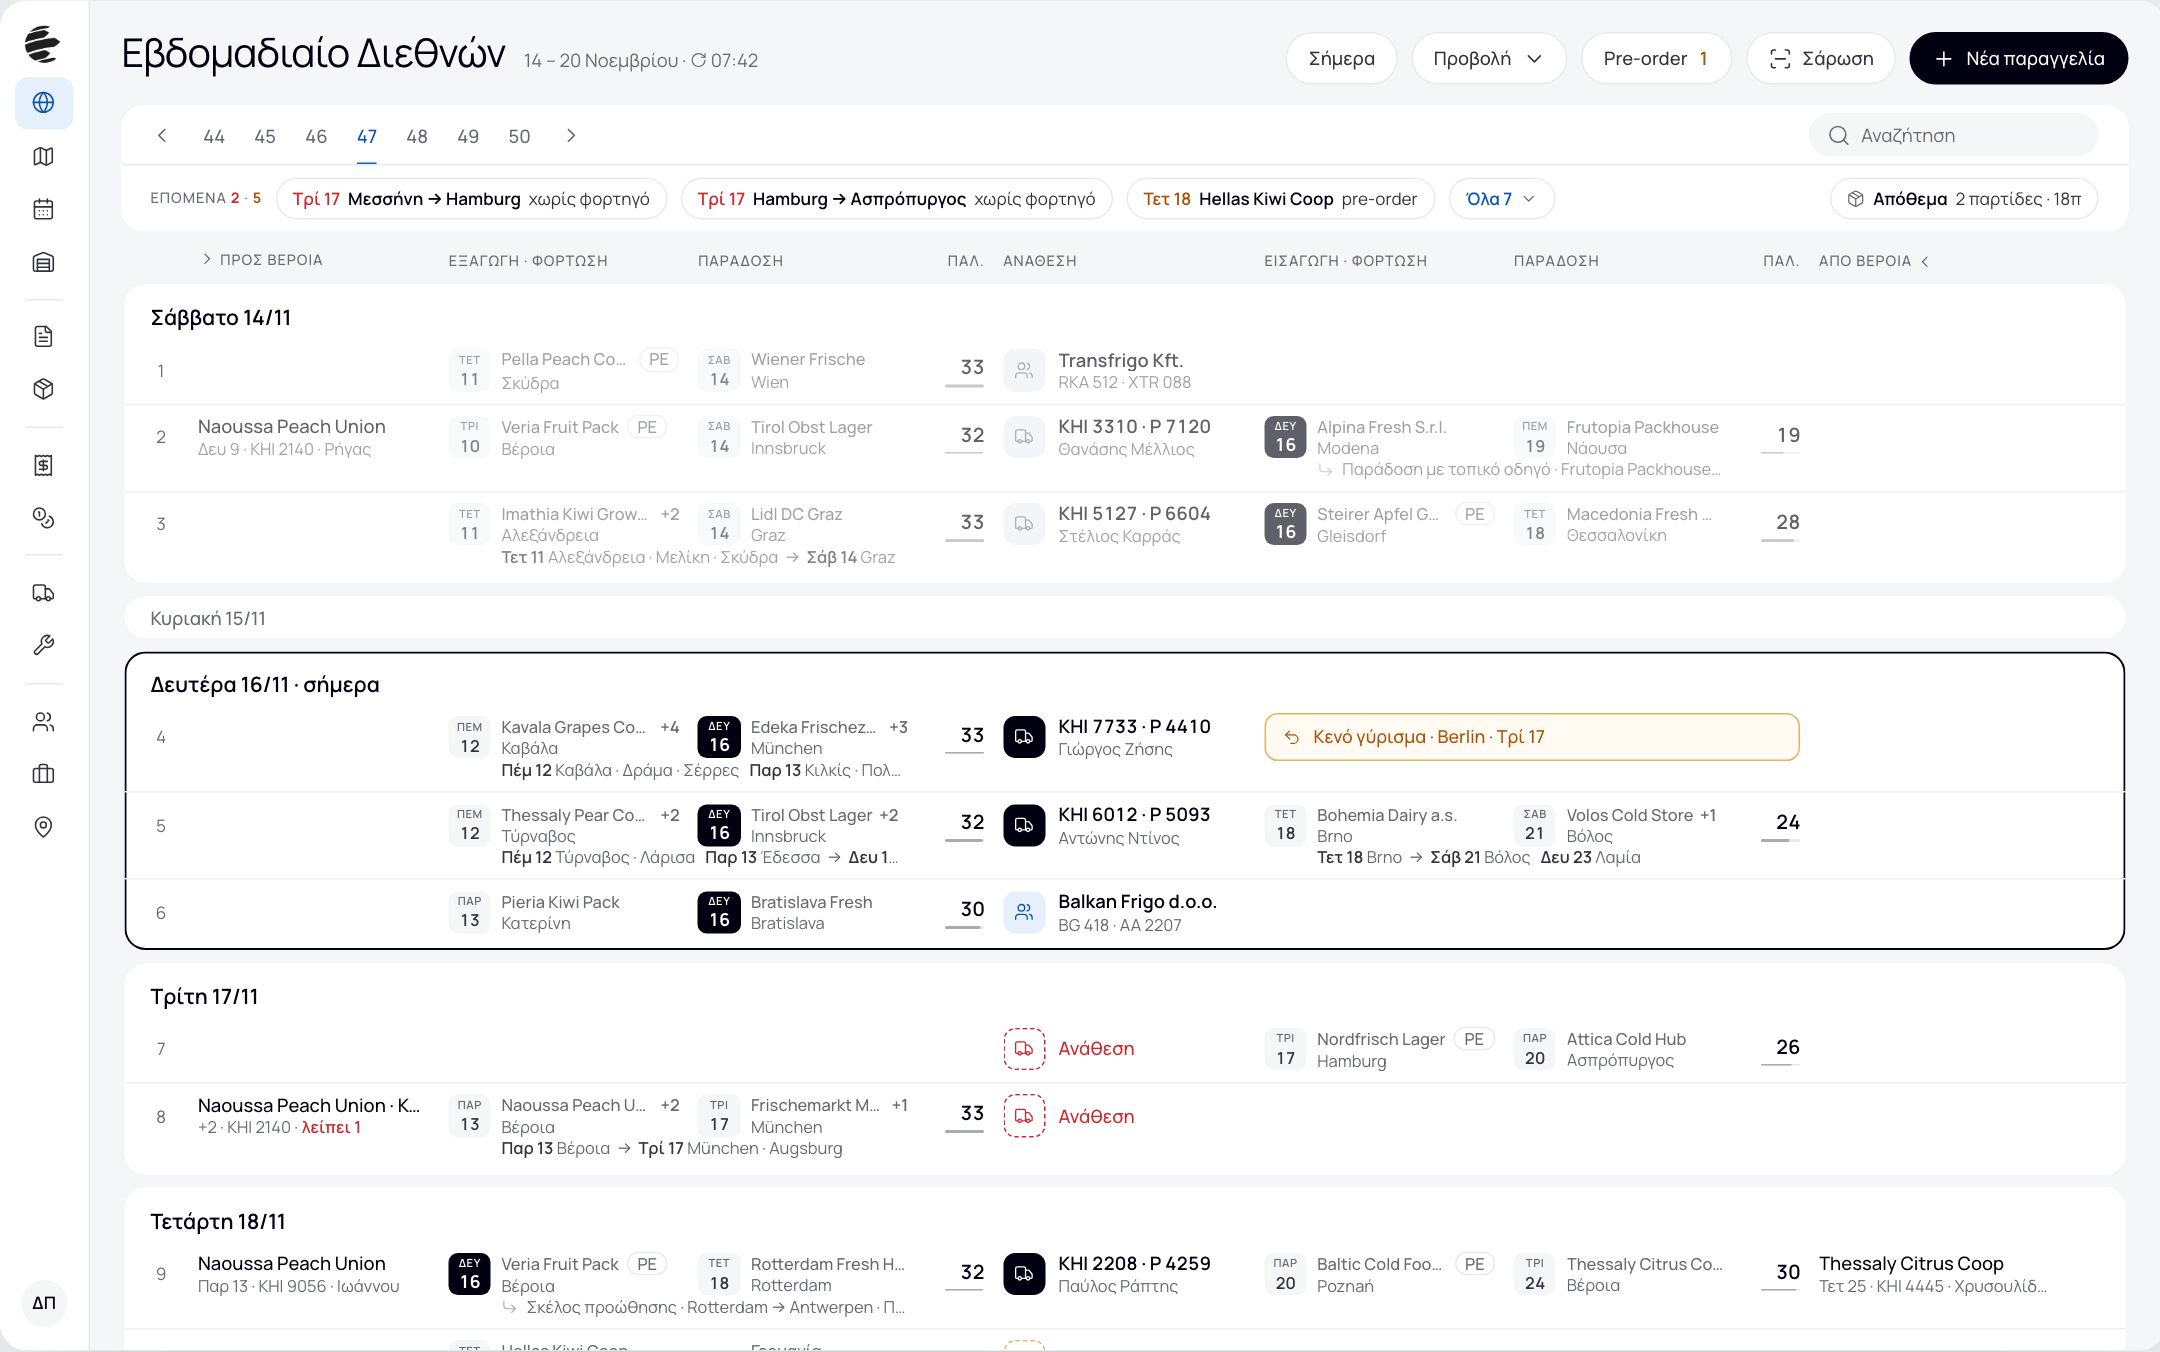
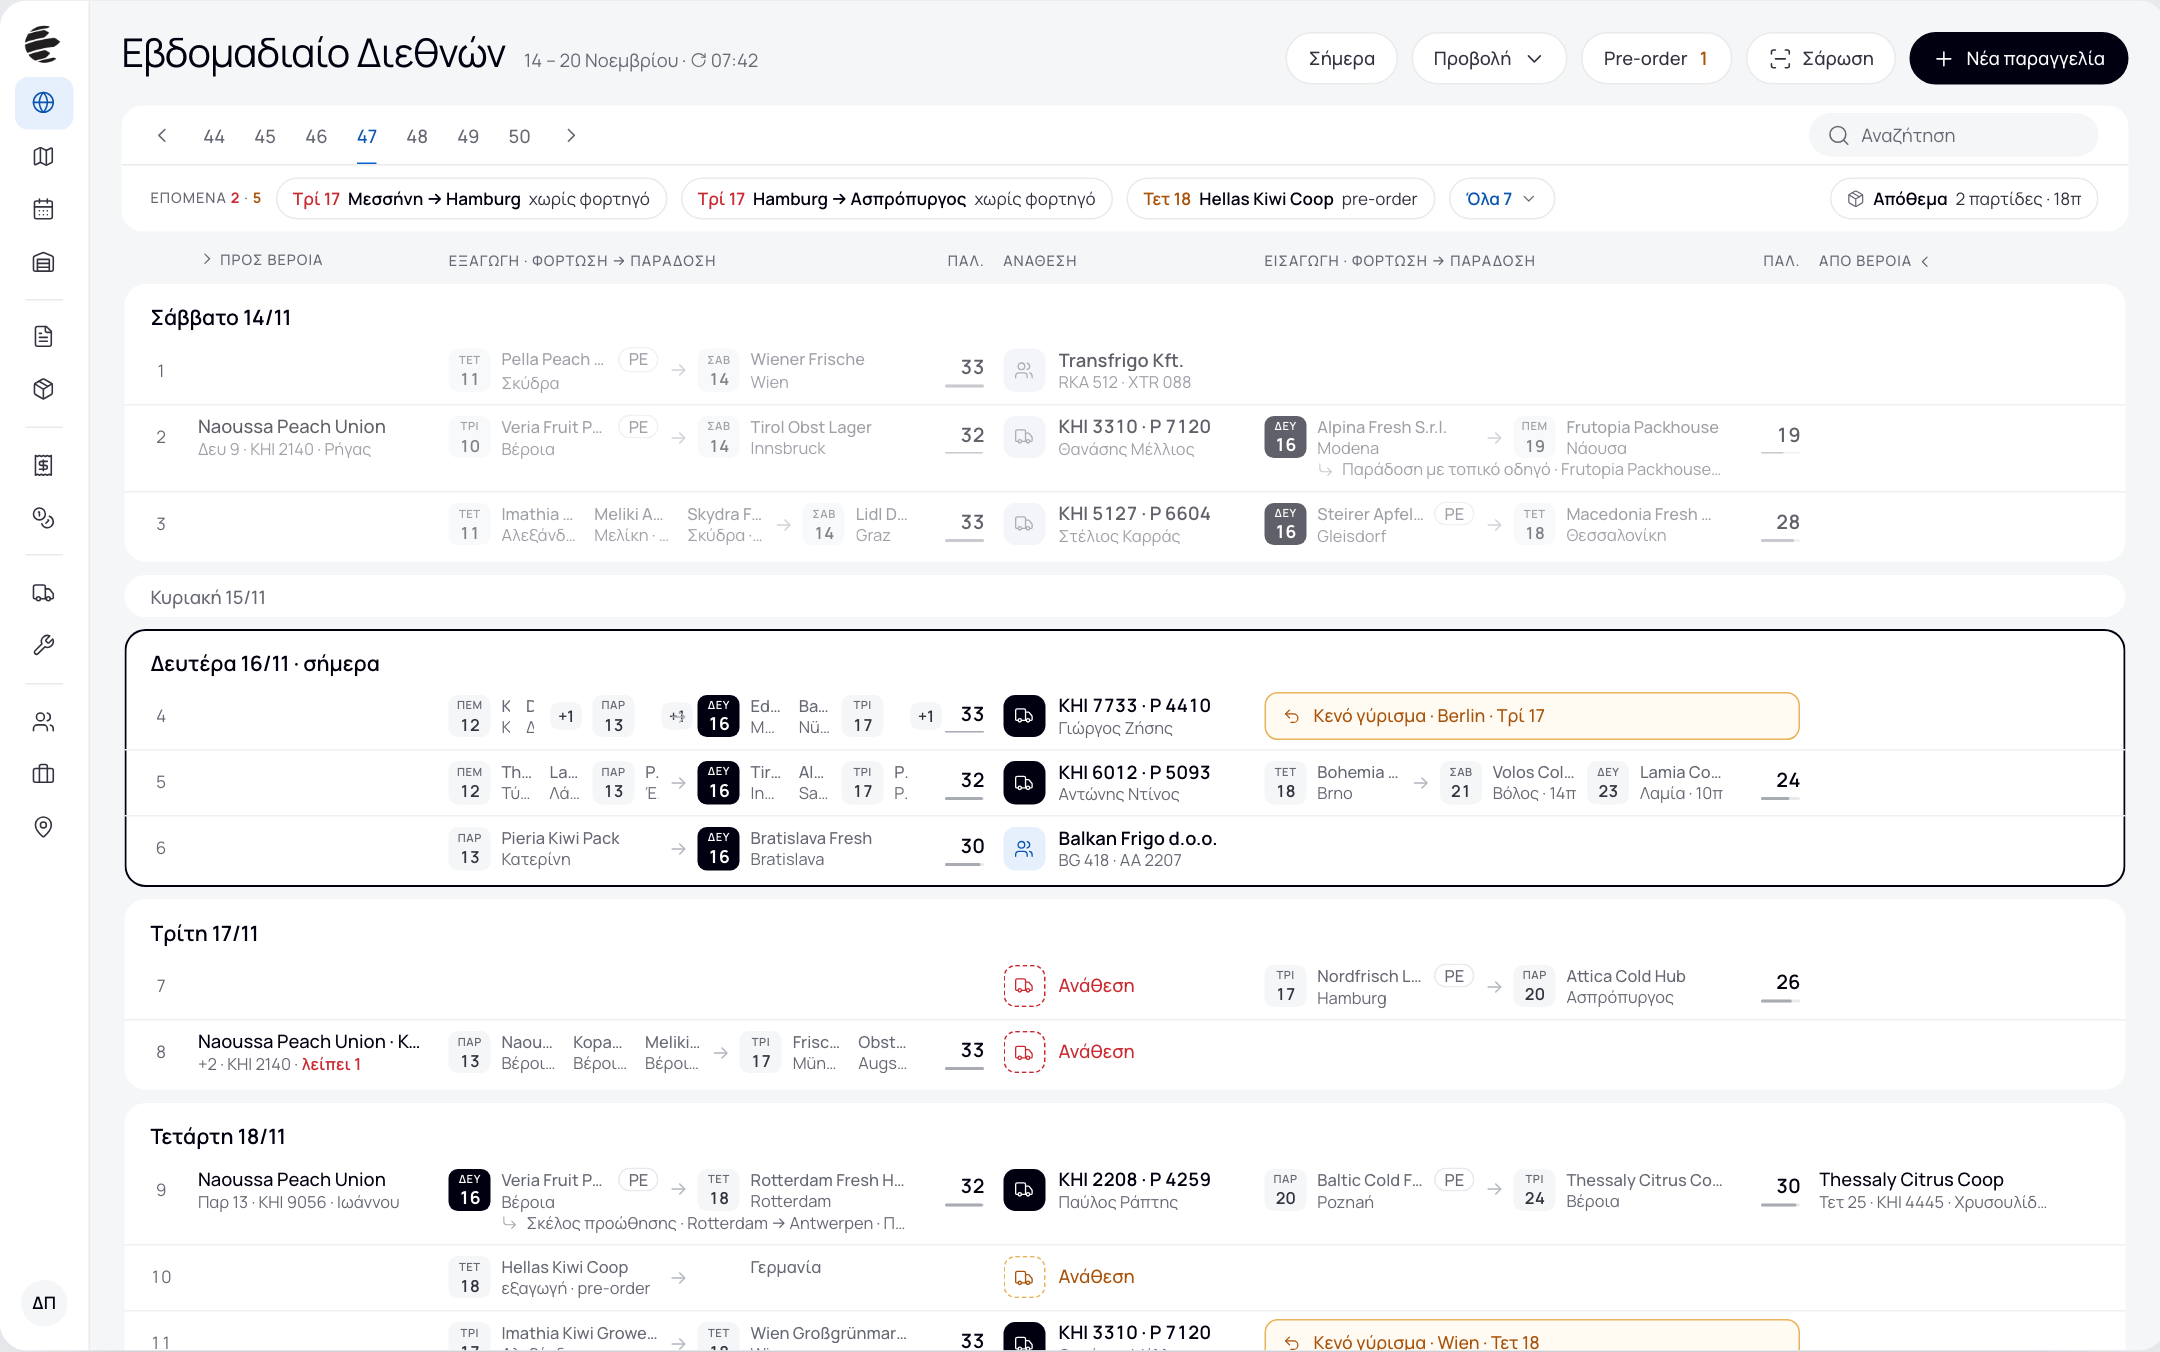
docs(redesign): Weekly International rebuilt as the 'route' structure the owner actually chose — a leaf per day with its points beside it, arrow, deliveries; my earlier build of the other structure came from a mislabelled picture order (owner 15/11)

diff --git a/docs/design/redesign-2026-11/index.html b/docs/design/redesign-2026-11/index.html
@@ -491,13 +491,13 @@ table.spec td b{color:var(--ink);font-weight:600}
 .vpop h5{margin-top:0}
 .lc .asb{background:none;padding:0}.lc .asb.need{padding:4px 12px}
 #f5>.app{zoom:.88;inset:0 auto auto 0;width:1636px;height:1023px}
-/* Weekly International, structure B (owner's choice 15/11): fixed columns; a load with many points gets one thin second line
-   with its whole route per day. Assignment as on yesterday's national board (icon tile + text). Today is ink, not blue. */
+/* Weekly International, structure B (owner's choice 15/11): each side is one route (leaf per day, its points beside it, arrow, deliveries). Assignment as on yesterday's national board (icon tile + text). Today is ink, not blue. */
 .lf.s:not(.t) b{font-size:12.5px;font-weight:600;color:var(--body)}
 .w9h,.w9row{display:grid;gap:0 14px;align-items:center;padding:0 20px 0 14px}.w9h{height:34px;margin-top:6px}
 .w9row{min-height:50px;position:relative;font-size:13.5px}.w9row+.w9row:not(.sub){border-top:1px solid #EEF0F2}.w9row.sub{min-height:0;margin-top:-8px;padding-bottom:8px}
 .w9no{color:var(--help);font-size:13px;text-align:center}
-.w9d{display:flex;align-items:center;gap:8px;min-width:0}.w9p{flex:1 1 0;min-width:0}
+.w9r,.w9d{display:flex;align-items:center;gap:8px;min-width:0}.w9ps{display:flex;gap:12px;min-width:0;flex:1}.w9p{flex:1 1 0;min-width:0}
+.w9m{flex:none;align-self:center;font-size:12px;font-weight:600;color:var(--body);background:var(--bg);border-radius:6px;padding:2px 6px}.w9a{flex:none;font-style:normal;color:#B5B8C0;font-size:15px}
 .w9p b,.w9as b,.w9v b{display:flex;align-items:center;font-size:14px;line-height:18px;color:var(--ink);white-space:nowrap;overflow:hidden}.w9p b,.w9v b{font-weight:500}.w9as b{font-weight:600}
 .w9p b .el,.w9v b .el{overflow:hidden;text-overflow:ellipsis}.w9p b .tag{flex:none}.w9p b .mo{flex:none;margin-left:5px;color:var(--help);font-weight:600;font-size:12.5px}
 .w9p span,.w9as .tx span,.w9v>span{display:block;font-size:12.5px;line-height:16px;color:var(--help);white-space:nowrap;overflow:hidden;text-overflow:ellipsis}
@@ -1061,7 +1061,9 @@ const lfMany=a=>a.length>1?`<div class="lns">${a.map(x=>lfLn(x[1],'',x[0],x[2],x
   ${vr(7,'<span class="vt2 num">ΚΗΙ 2140 +1<i>4 σημ.</i></span>',two('Imathia Kiwi Growers +1','Τρί 17 · Βέροια'),two('Wien Großgrünmarkt','Τετ 18 · Wien'),33,need)}
   ${vr(5,'<span class="vt2 r h num">ΚΗΙ 2140 · <em>λείπει 1</em></span>',lfMany([['Πέμ 12','Naoussa Peach Union +1','Νάουσα, Κοπανός'],['Παρ 13','Meliki Agro','Μελίκη']]),lfMany([['Δευ 16','Frischemarkt München +1','München, Augsburg',1],['Τρί 17','Stuttgart Großmarkt','Stuttgart']]),33,trk('ΚΗΙ 3310 · Ρ 7120','Θανάσης Μέλλιος'),pop)}</div>`;
 })();
-/* Weekly International, structure B, mounted in the weekly screen (#f5). One row = one truck trip. */
+/* Weekly International, the 'route' structure the owner chose (15/11), mounted in the weekly screen (#f5). One row = one truck trip.
+   Each side is one route: a leaf per day with that day's points beside it, an arrow, then the deliveries. At most three points are
+   drawn per side; the rest show as +N and open on hover. */
 (function(){
  const TODAY='Δευ 16',P=(n,c,d,p,t)=>({n,c,d,p,t});
  const leaf=d=>{const [w,n]=d.split(' ');return `<span class="lf s ${d===TODAY?'t':''}"><i>${lfUp(w)}</i><b>${n}</b></span>`};
@@ -1073,15 +1075,15 @@ const lfMany=a=>a.length>1?`<div class="lns">${a.map(x=>lfLn(x[1],'',x[0],x[2],x
   if(!OPEN)return `<span class="w9vm ${miss?'r':''}" title="${v.map(x=>x.n+' · '+(x.t||'χωρίς φορτηγό')).join(' | ')}">${ic('warehouse')}</span>`;
   return v.length===1?`<div class="w9v"><b><span class="el">${v[0].n}</span></b><span>${v[0].d} · ${v[0].t||'<em>χωρίς φορτηγό</em>'}</span></div>`
    :`<div class="w9v"><b><span class="el">${v.map(x=>x.n).join(' · ')}</span></b><span>+${v.length-1} · ${tr[0].split(' · ')[0]}${tr.length>1?` +${tr.length-1}`:''}${miss?` · <em>λείπει ${miss}</em>`:''}</span></div>`};
- const cell=a=>`<div class="w9d">${a[0].d?leaf(a[0].d):'<span style="width:32px;flex:none"></span>'}<div class="w9p"><b><span class="el">${a[0].n}</span>${a.length>1?`<span class="mo">+${a.length-1}</span>`:''}${tags(a[0].t||'')}</b><span>${a[0].c}</span></div></div>`;
- const route=x=>{const f=a=>byDay(a).map(([d,p])=>`<b>${d}</b> ${p.map(q=>q.c).filter((c,i,z)=>z.indexOf(c)===i).join(' · ')}`).join(' &nbsp; ');return `${f(x.L)} &nbsp;→&nbsp; ${f(x.D)}`};
- const multi=x=>x&&(x.L.length>1||x.D.length>1),E3='<span></span><span></span><span></span>';
+ const grp=a=>{const g=byDay(a);let cap=Math.max(3,g.length)-g.length;const sh=g.map(([d,p])=>{const k=Math.min(p.length-1,cap);cap-=k;return 1+k});
+  return g.map(([d,p],i)=>`<div class="w9d" style="flex:${sh[i]} 1 0">${d?leaf(d):'<span style="width:32px;flex:none"></span>'}<div class="w9ps">${p.slice(0,sh[i]).map(q=>`<div class="w9p"><b><span class="el">${q.n}</span>${tags(q.t||'')}</b><span>${q.c}${q.p?` · ${q.p}π`:''}</span></div>`).join('')}${p.length>sh[i]?`<span class="w9m">+${p.length-sh[i]}</span>`:''}</div></div>`).join('')};
+ const side=x=>`<div class="w9r">${grp(x.L)}<i class="w9a">→</i>${grp(x.D)}</div>${pal(x.pal)}`,E2='<span></span><span></span>';
  /* the two Veroia columns are side panels: closed by default (owner 15/11), a small mark stays on the rows that go through Veroia */
  let OPEN=false,G='';
- const grid=()=>{const v=OPEN?'176px':'30px';G=`28px ${v} minmax(0,1.1fr) minmax(0,1fr) 44px 184px minmax(0,1.1fr) minmax(0,1fr) 44px ${v} 22px`};
- const sub=(l,r)=>`<div class="w9row sub" style="grid-template-columns:${G}"><span></span><span></span><div class="w9l2" style="grid-column:span 2">${l||''}</div><span></span><span></span><div class="w9l2" style="grid-column:span 2">${r||''}</div><span></span><span></span><span></span></div>`;
- const row=r=>`<div class="w9row" style="grid-template-columns:${G}"><span class="w9no num">${r.no}</span>${vcell(r.vTo)}${r.ex?cell(r.ex.L)+cell(r.ex.D)+pal(r.ex.pal):E3}${asg(r.as)}${r.im?cell(r.im.L)+cell(r.im.D)+pal(r.im.pal):r.gap?`<div class="w9gap" style="grid-column:span 3">${ic('undo-2')}Κενό γύρισμα · ${r.gap}</div>`:E3}${vcell(r.vFrom)}<span></span></div>`
-  +(multi(r.ex)||multi(r.im)?sub(multi(r.ex)?route(r.ex):'',multi(r.im)?route(r.im):''):'')+(r.note?sub(r.note[0]&&ic('corner-down-right')+r.note[0],r.note[1]&&ic('corner-down-right')+r.note[1]):'');
+ const grid=()=>{const v=OPEN?'176px':'30px';G=`28px ${v} minmax(0,1fr) 44px 184px minmax(0,1fr) 44px ${v} 22px`};
+ const sub=(l,r)=>`<div class="w9row sub" style="grid-template-columns:${G}"><span></span><span></span><div class="w9l2">${l||''}</div><span></span><span></span><div class="w9l2">${r||''}</div><span></span><span></span><span></span></div>`;
+ const row=r=>`<div class="w9row" style="grid-template-columns:${G}"><span class="w9no num">${r.no}</span>${vcell(r.vTo)}${r.ex?side(r.ex):E2}${asg(r.as)}${r.im?side(r.im):r.gap?`<div class="w9gap" style="grid-column:span 2">${ic('undo-2')}Κενό γύρισμα · ${r.gap}</div>`:E2}${vcell(r.vFrom)}<span></span></div>`
+  +(r.note?sub(r.note[0]&&ic('corner-down-right')+r.note[0],r.note[1]&&ic('corner-down-right')+r.note[1]):'');
  const NV={n:'Naoussa Peach Union',c:'Νάουσα'};
  const WK=[
   ['Σάββατο 14/11','past',[
@@ -1110,7 +1112,7 @@ const lfMany=a=>a.length>1?`<div class="lns">${a.map(x=>lfLn(x[1],'',x[0],x[2],x
    {ex:{L:[P('Pella Peach Coop','Σκύδρα','Τρί 17')],D:[P('Nordic Fresh Hub','København','Πέμ 19')],pal:30},as:['x','ΚΗΙ 4521','→ Transfrigo · από Wien']}]],
   ['Παρασκευή 20/11','none',[]],
  ];
- const head=()=>`<div class="w9h lbl" style="grid-template-columns:${G}">${['',OPEN?`<a class="w9vh" title="Κλείσιμο">${ic('chevron-right')}Προς Βέροια</a>`:`<a class="w9vh" title="Προς Βέροια">${ic('chevron-left')}</a>`,'Εξαγωγή · φόρτωση','Παράδοση','Παλ.','Ανάθεση','Εισαγωγή · φόρτωση','Παράδοση','Παλ.',OPEN?`<a class="w9vh" title="Κλείσιμο">Από Βέροια${ic('chevron-left')}</a>`:`<a class="w9vh" title="Από Βέροια">${ic('chevron-right')}</a>`,''].map(c=>`<span ${c==='Παλ.'?'style="text-align:right"':''}>${c}</span>`).join('')}</div>`;
+ const head=()=>`<div class="w9h lbl" style="grid-template-columns:${G}">${['',OPEN?`<a class="w9vh" title="Κλείσιμο">${ic('chevron-right')}Προς Βέροια</a>`:`<a class="w9vh" title="Προς Βέροια">${ic('chevron-left')}</a>`,'Εξαγωγή · φόρτωση → παράδοση','Παλ.','Ανάθεση','Εισαγωγή · φόρτωση → παράδοση','Παλ.',OPEN?`<a class="w9vh" title="Κλείσιμο">Από Βέροια${ic('chevron-left')}</a>`:`<a class="w9vh" title="Από Βέροια">${ic('chevron-right')}</a>`,''].map(c=>`<span ${c==='Παλ.'?'style="text-align:right"':''}>${c}</span>`).join('')}</div>`;
  const bh=$('f5').querySelector('.bh'),old=bh.nextElementSibling,box=document.createElement('div');
  box.style.cssText='flex:1;min-height:0;overflow:hidden;padding:0 2px';
  const draw=()=>{let no=0;grid();box.innerHTML=head()+`<div style="margin-top:-10px">${WK.map(([t,c,rows])=>`<section class="day ${c}"><h3>${t}</h3>${rows.map(r=>row({...r,no:++no})).join('')}</section>`).join('')}</div>`;if(window.lucide)lucide.createIcons()};

diff --git a/docs/design/redesign-2026-11/parity/README.md b/docs/design/redesign-2026-11/parity/README.md
@@ -184,3 +184,5 @@
 **Χρώματα (ερώτηση owner, ανοιχτό):** το σχέδιο είναι ασπρόμαυρο, όπως το λογότυπο, και δεν του αρέσει. Τρεις παλέτες ανεξάρτητες από το λογότυπο, στην ίδια οθόνη: `shots/09-palette-green.png` (βαθύ πράσινο), `shots/09-palette-teal.png` (πετρόλ), `shots/09-palette-plum.png` (δαμασκηνί). Κόκκινο, κεχριμπαρί και πράσινο μένουν μόνο για κατάσταση.
 
 **Οι δύο στήλες Βέροιας είναι πλαϊνά πάνελ, κλειστά από προεπιλογή (owner 15/11, βράδυ).** Κλειστά: ένα μικρό σημάδι στη γραμμή που περνά από Βέροια, κόκκινο διακεκομμένο όταν λείπει φορτηγό· τα ονόματα παίρνουν τον χώρο τους. Ανοίγουν από το βελάκι της κεφαλίδας (`shots/06-weekly-intl.png` κλειστό, `shots/06-weekly-intl-veroia-open.png` ανοιχτό). Το χρώμα μένει ανοιχτό: δοκιμάστηκαν πετρόλ, βαθύ πράσινο, δαμασκηνί, τα μπλε της σημερινής εφαρμογής και το λουλακί του FreightSuite, χωρίς επιλογή ακόμη.
+
+**Διόρθωση (15/11, βράδυ): ο owner είχε διαλέξει τη «Διαδρομή», όχι τη «Δεύτερη σειρά».** Στο μήνυμα με τις τρεις δομές οι εικόνες στάλθηκαν με άλλη σειρά από τα γράμματά τους, και το «Β» του εννοούσε τη δεύτερη εικόνα (`shots/08-wi-concept-a.png`). Η κύρια οθόνη (#f5) ξαναχτίστηκε ως «Διαδρομή»: κάθε πλευρά μία διαδρομή, ένα φύλλο ανά ημέρα με τα σημεία της δίπλα του, βελάκι προς την παράδοση, έως τρία σημεία ανά πλευρά και τα υπόλοιπα ως «+N». Ισχύουν όσα είπε μετά: «σήμερα» χωρίς μπλε, ανάθεση του χθεσινού Εθνικών, πάνελ Βέροιας κλειστά από προεπιλογή. Ό,τι γράφει παραπάνω «δομή Β» ως επιλογή του είναι λάθος δικό μου.
